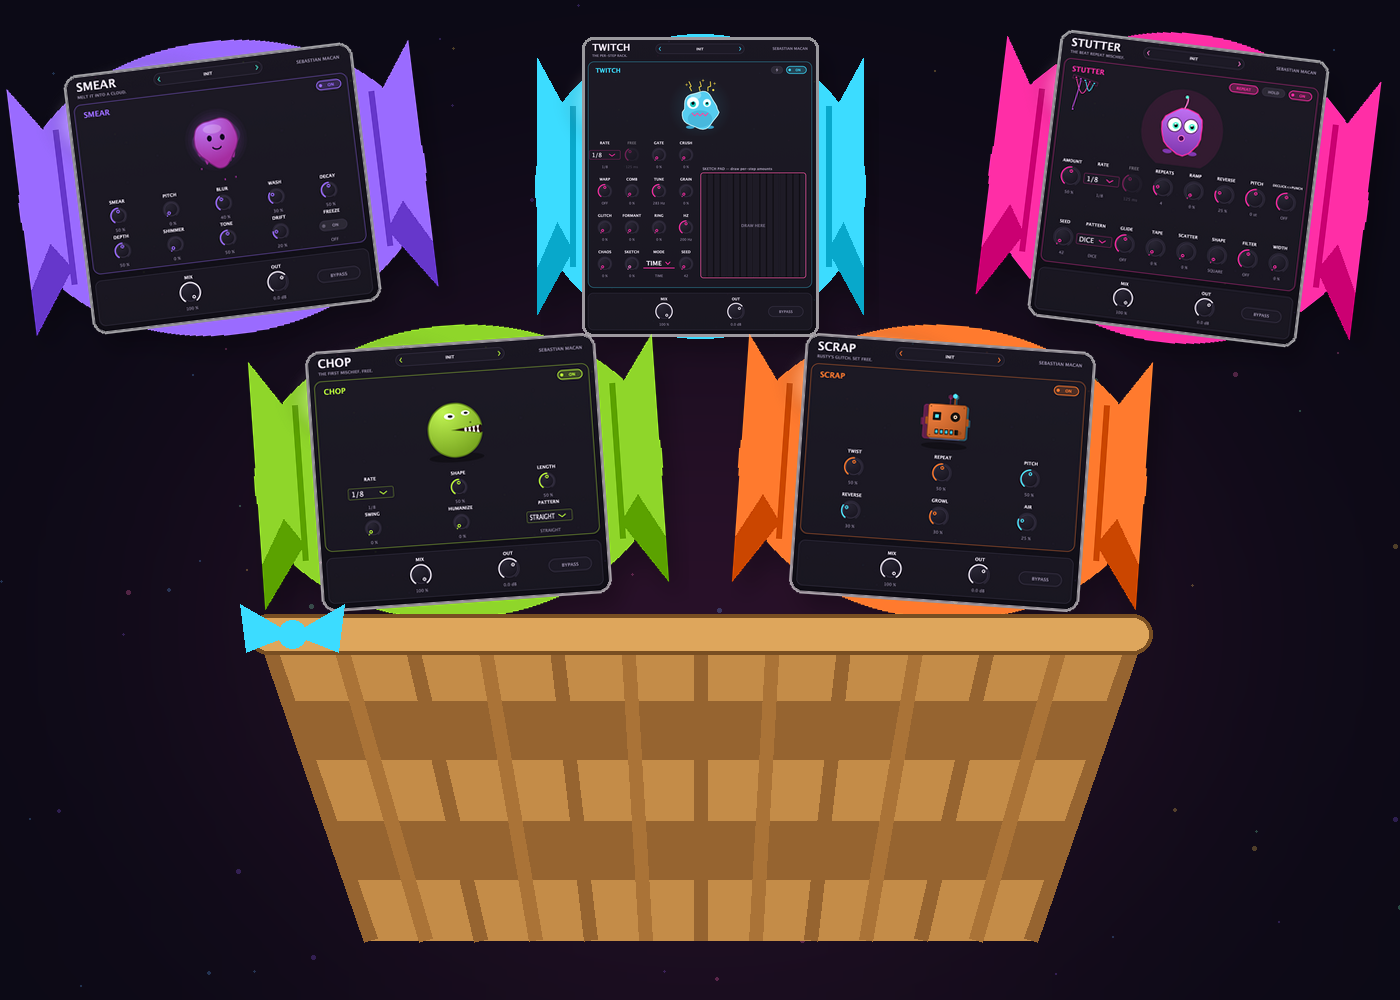
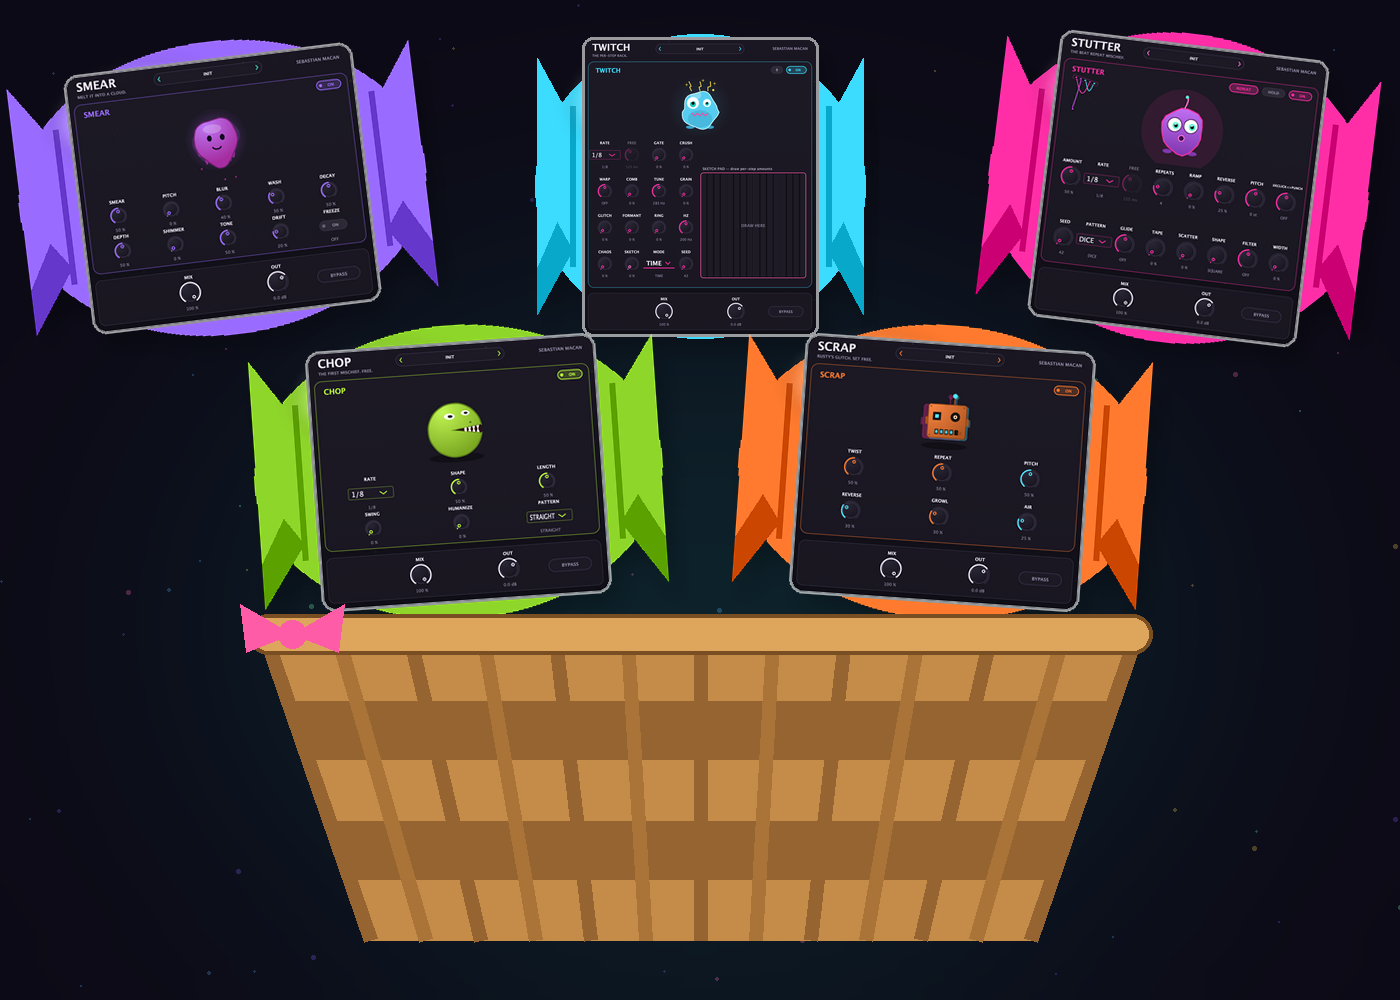
Gremlin Basket: Electric colours (cyan to lime) on card and page; wrappers unchanged

Changed region(s): [[0.43, 0.496, 0.5836, 0.62], [0.1536, 0.589, 0.2457, 0.651]]

diff --git a/index.html b/index.html
@@ -169,7 +169,7 @@
     .instr-b { --g1:#39e6d0; --g2:#60a5fa; --glow:#39e6d0; --shadow:rgba(57,230,208,.26); }
     .fx-b { --g1:#ff5ca8; --g2:#8b5cf6; --glow:#ff5ca8; --shadow:rgba(255,92,168,.26); }
     .studio-b { --g1:#f5a623; --g2:#60a5fa; --glow:#f5a623; --shadow:rgba(245,166,35,.26); }
-    .gremlin-b { --g1:#ff2ea6; --g2:#ffb347; --glow:#ff2ea6; --shadow:rgba(255,46,166,.26); }
+    .gremlin-b { --g1:#3cdcff; --g2:#9dff4a; --glow:#3cdcff; --shadow:rgba(60,220,255,.26); }
     .tape-b { --g1:#d4712f; --g2:#e8d9bb; --glow:#d4712f; --shadow:rgba(212,113,47,.30); }
     .taperoom-b { --g1:#ff7a3d; --g2:#e8d9bb; --glow:#ff7a3d; --shadow:rgba(255,122,61,.30); }
     .cozy-b { --g1:#ff5e3a; --g2:#ffb86b; --glow:#ff5e3a; --shadow:rgba(255,94,58,.30); }
@@ -752,12 +752,12 @@
       </div>
     </a>
     <a class="bundle gremlin-b" href="basket-gremlin.html">
-      <img src="img/bundles/gremlin_bundle.png?v=2" alt="Gremlin Basket: Smear, Stutter, Twitch, Chop and Scrap as wrapped candy in a basket" loading="lazy">
+      <img src="img/bundles/gremlin_bundle.png?v=3" alt="Gremlin Basket: Smear, Stutter, Twitch, Chop and Scrap as wrapped candy in a basket" loading="lazy">
       <div class="binner">
         <h3>GREMLIN BASKET</h3>
         <p class="desc">Smear, Stutter, Twitch, Chop and Scrap. Five little troublemakers who will not leave your sound alone. Do not feed them after midnight.</p>
         <div class="price">$35</div>
-        <span class="dl bopen" style="background:linear-gradient(135deg,#ff2ea6,#ffb347);">Open the basket</span>
+        <span class="dl bopen" style="background:linear-gradient(135deg,#3cdcff,#9dff4a);">Open the basket</span>
         <div class="cartrow"><span class="cartbtn add" role="button" tabindex="0" data-cart-add="gremlinbasket">Add to Cart</span><span class="cartbtn buy" role="button" tabindex="0" data-cart-buy="gremlinbasket">Buy Now</span></div>
       </div>
     </a>

diff --git a/basket-gremlin.html b/basket-gremlin.html
@@ -28,7 +28,7 @@
 <meta name="description" content="Smear, Stutter, Twitch, Chop and Scrap. Five Sebastian Macan troublemakers, one basket, VST3 + AU for macOS and Windows.">
 <meta name="robots" content="index,follow">
 <style>
-  :root { --bg:#0a0a0c; --card:#141418; --txt:#f2f2f4; --dim:#8a8a94; --line:#222228; --g1:#ff2ea6; --g2:#ffb347; }
+  :root { --bg:#0a0a0c; --card:#141418; --txt:#f2f2f4; --dim:#8a8a94; --line:#222228; --g1:#3cdcff; --g2:#9dff4a; }
   * { margin:0; padding:0; box-sizing:border-box; }
   body { background:var(--bg); color:var(--txt); font-family:-apple-system,BlinkMacSystemFont,Inter,"Segoe UI",Roboto,sans-serif; line-height:1.65; }
   .wrap { max-width:960px; margin:0 auto; padding:0 24px; }
@@ -90,7 +90,7 @@
     <div class="kind">Candy Basket</div>
     <h1>GREMLIN BASKET</h1>
     <p class="tag">Five little troublemakers who will not leave your sound alone. Do not feed them after midnight.</p>
-    <img class="bimg" src="img/bundles/gremlin_bundle.png?v=2" alt="GREMLIN BASKET basket art">
+    <img class="bimg" src="img/bundles/gremlin_bundle.png?v=3" alt="GREMLIN BASKET basket art">
     <div class="pricebar"><span class="big">$35</span></div>
     <div class="meta">5 plugins · VST3 + AU · macOS + Windows</div>
     <div class="cta" style="margin-top:22px;"><span class="dl buy" role="button" tabindex="0" data-cart-buy="gremlinbasket">Buy Gremlin Basket &middot; $35</span><div class="cartrow" style="justify-content:center;"><span class="cartbtn add" role="button" tabindex="0" data-cart-add="gremlinbasket">Add to Cart</span><span class="cartbtn buy" role="button" tabindex="0" data-cart-buy="gremlinbasket">Buy Now</span></div></div>
